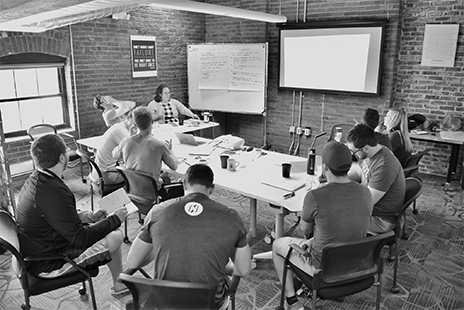
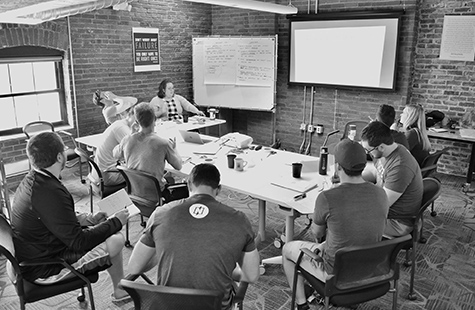
services
replaced photos with correctly sized ones. tweaked sizing on page.

diff --git a/methodmark/css/services.css b/methodmark/css/services.css
@@ -89,19 +89,19 @@ SERVICES section
 #services #strategy .funky-item:nth-child(1) {
   background-image: url('../assets/services_img1.jpg');
   width: 50%;
-  padding-top: 33.333%;
+  padding-top: calc((310/950)*100%);
 }
 
 #services #strategy .funky-item:nth-child(2) {
   background-image: url('../assets/services_img2.jpg');
   width: 50%;
-  padding-top: 33.333%;
+  padding-top: calc((310/950)*100%);
 }
 
 #services #strategy .funky-item:nth-child(3) {
   background-image: url('../assets/services_img3.jpg');
   width: 100%;
-  padding-top: 51%;
+  padding-top: calc((440/950)*100%);
 }
 
 #services #brand .funky-item {
@@ -138,7 +138,7 @@ SERVICES section
 /*  position: relative;*/
   background: none;
   width: 50%;
-  padding: 0;
+  padding: 0 50px 50px;
   height: auto;
 }
 
@@ -152,8 +152,12 @@ SERVICES section
 #services #creative .funky-item:nth-child(3) {
   width: 100%;
   height: auto;
-  padding: 0;
+  padding: 50px 0 50px 50px;
   background: none;
+}
+
+#services .slider-desktop {
+  margin-top: 50px;
 }
 
 #services .slider-mobile {
@@ -267,6 +271,7 @@ MEDIA QUERIES
   
   #services #creative .funky-item:nth-child(3) {
     width: 100%;
+    padding-left: 0;
   }
   
   #services .slider-mobile {
